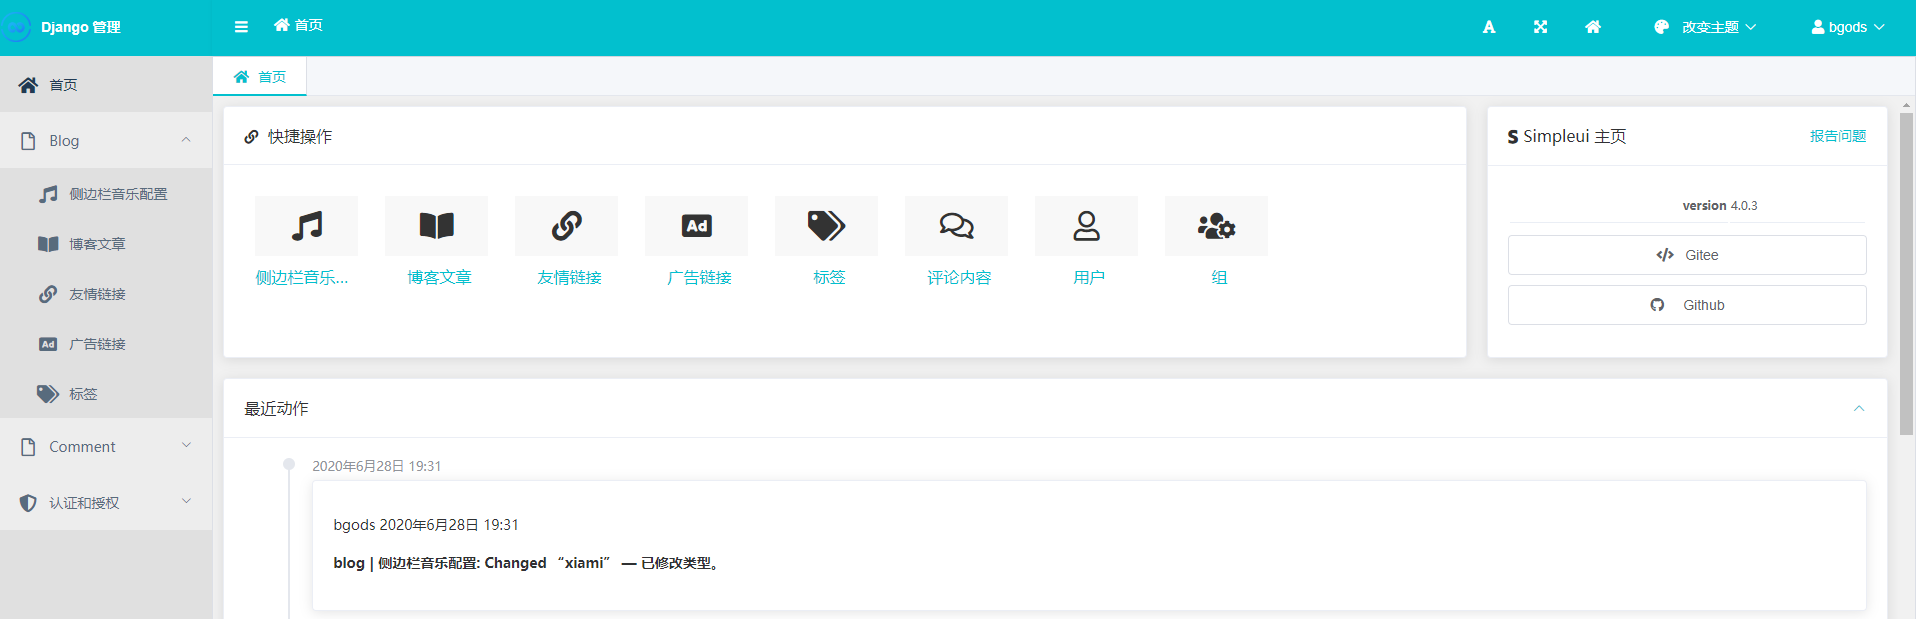
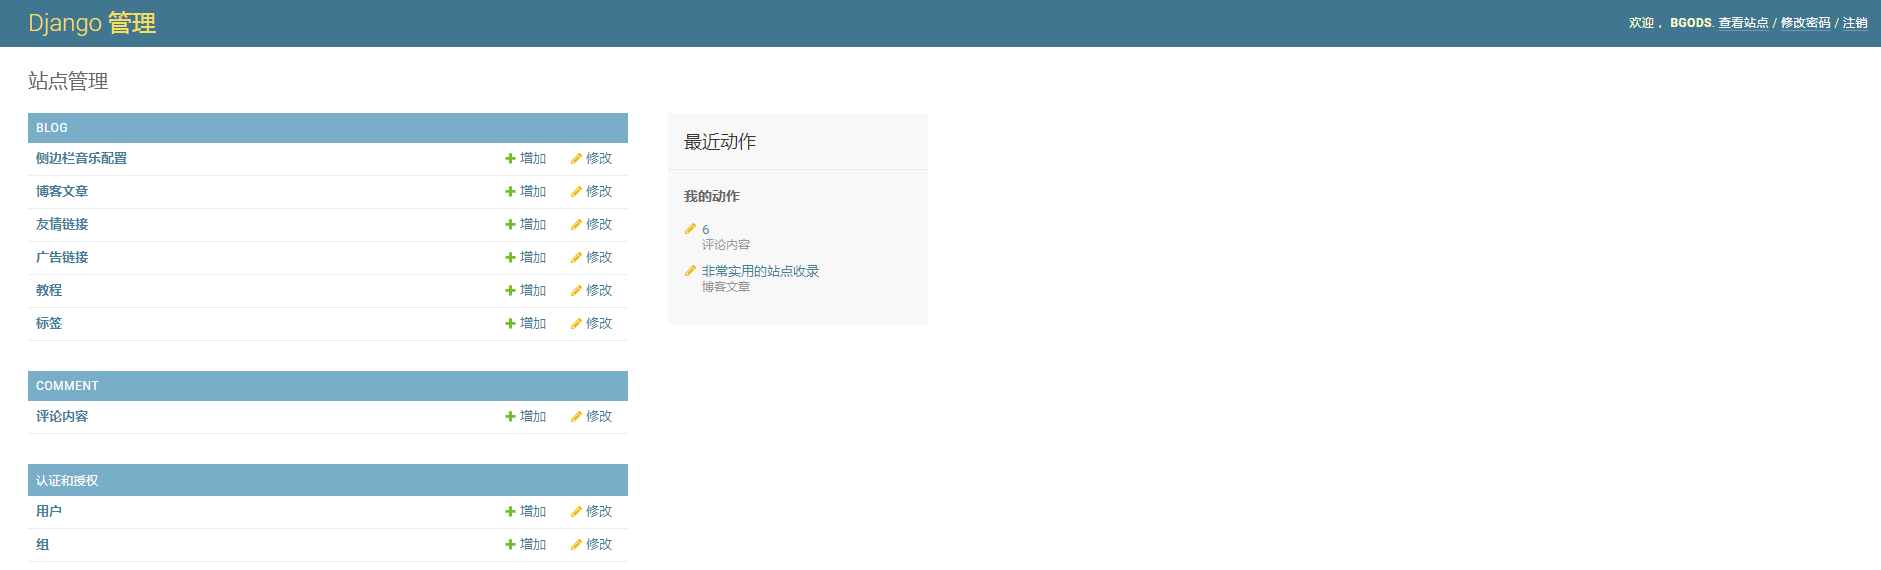
UPDATE

diff --git a/www/common_static/js/toc.js b/www/common_static/js/toc.js
@@ -12,6 +12,8 @@ $(document).ready(function() {
             }
         }
     });
+    // 如果h标签不存在, 则隐藏
+    if ($(".toc").html() === ''){$("section.toc-wrapper").hide();}
 
     // 展开和隐藏目录
     $('.toc-show-hide').click(function(){

diff --git a/README.md b/README.md
@@ -47,11 +47,10 @@
 
 ## 2、后台管理
 
-使用[simpleui](https://github.com/newpanjing/simpleui)第三方后台管理工具，特色如下：
 
 - 编辑器
 
-后台集成Markdown编辑器 [mdeditor](https://pandao.github.io/editor.md/)，
+后台集成富文本编辑器 [ckeditor](https://github.com/django-ckeditor/django-ckeditor)
 
 ![](doc/admin-post-add_20190426204956161746_20200628202421166552.png)
 
@@ -77,6 +76,7 @@
 
 ![](doc/20200628195857_20200628202648432891.png)
 
+---
 
 ## 使用方法
 
@@ -107,7 +107,6 @@ SITE_CONFIGS = {
         'Beian': '粤ICP备17050010号', # 备案号
     },
 
-
     # 百度统计,代码获取方法自行百度,不需要的话可以留空
     'BaiduTj': '''
     <script>
@@ -119,18 +118,23 @@ SITE_CONFIGS = {
         s.parentNode.insertBefore(hm, s);
     })();
     </script>''',
+
 }
 
 #  邮箱配置
 EMAIL_USE_SSL = True
-EMAIL_HOST = 'smtp.163.com'  # 我这里使用的是163邮箱，可以配置其他QQ等
+EMAIL_HOST = 'smtp.163.com'  # 我这里使用的是163邮箱，可以配置其他
 EMAIL_PORT = 465
-EMAIL_HOST_USER = 'bgods_blog@163.com'  # 邮箱帐号
-EMAIL_HOST_PASSWORD = '******'  # 邮箱密码
+EMAIL_HOST_USER = 'bgods_blog@163.com'  # 邮箱帐号：用于发送邮件的账号
+EMAIL_HOST_PASSWORD = '******'        # 邮箱密码：用于发送邮件的账号密码
 DEFAULT_FROM_EMAIL = 'bgods_blog <bgods_blog@163.com>'   # 发件人，邮件头部显示
-HTTP_HOST = 'http://bgods.cn'  # 正式部署时站点域名，用于评论回复发送邮件时，收件人从邮件中的跳转到评论区。我这里是http://bgods.cn
 
+EMAIL_RECEIVE_LIST = [
+    'bgods@qq.com',
+]  # 接收邮件帐号列表(可写多个)： 有评论时候，通知哪些邮箱，可以是发件邮箱或者其他
 ```
+当然, 还有其他配置, 比如后台管理以及评论内容编辑器的配置, 具体自己可以百度调整
+
 ### 3、安装依赖
 
 - 进入项目目录创建虚拟环境，安装依赖
